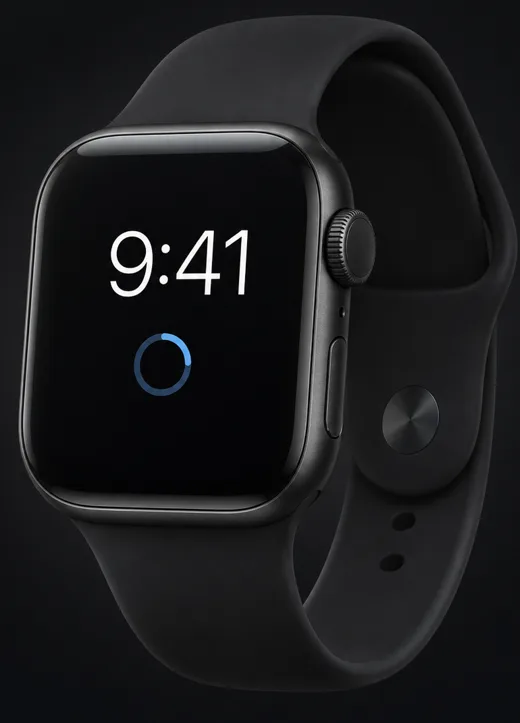
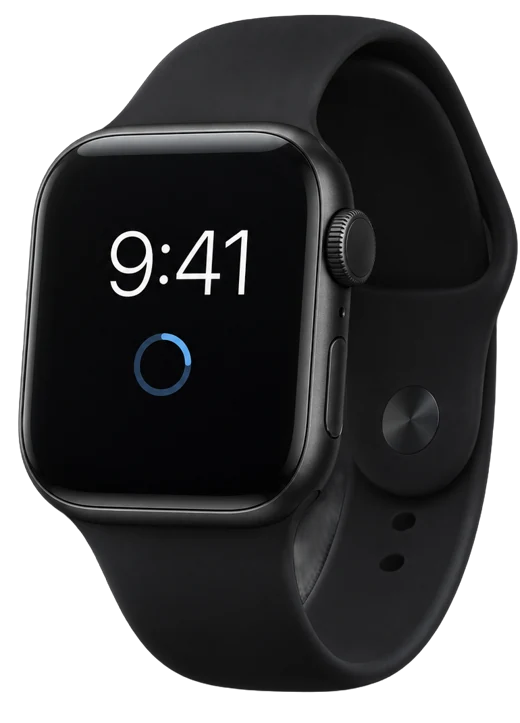
Hero device cut out of its photo, grey glow around it
The four device photos are cut out (transparent background), so the soft
grey glow sits around the device itself and the hero's black shows behind
the strap. The screen overlay stays black like the original. The device
sits a little higher, and the hero keeps enough room above the stats that
it never reaches the date, even when the fuel strip is shown.

Claude-Session: https://claude.ai/code/session_012nSa73TQJCXMLahdjqwpcK

Changed region(s): [[0.0, 0.0, 1.0, 1.0], [0.5538, 0.6999, 0.6769, 0.8216]]

diff --git a/src/app/dashboard/dashboard.css b/src/app/dashboard/dashboard.css
@@ -10,6 +10,7 @@
 /* hero */
 .hero { container: hero / inline-size; position: relative; display: grid; color: #fff; cursor: pointer; background: var(--hero); color: #fff; border-radius: var(--radius); padding: 22px 28px 24px; display: grid; gap: 12px; grid-template-rows: auto 1fr auto; min-height: 350px; }
 .hero.done { background: var(--hero-done); }
+.hero > .top + div { min-height: 172px; } /* room above the stats for the device, whatever else the hero holds */
 .hero .top { display: flex; justify-content: space-between; font-size: 12px; letter-spacing: 0.04em; text-transform: uppercase; opacity: 0.9; }
 .hero .title { font-size: 56px; font-weight: 600; letter-spacing: -0.03em; line-height: 0.95; }
 .hero .sub { font-size: 28px; font-weight: 400; opacity: 0.9; letter-spacing: -0.02em; margin-top: 4px; }
@@ -30,11 +31,10 @@
 .hero .stat.gm { position: relative; padding-right: 0; border-right: 0; }
 .hero { overflow: hidden; } /* the strap may run past the top edge; it fades there */
 .hero .top { position: relative; z-index: 2; } /* the date stays on top of the device */
-.hero .garmin { position: absolute; left: 50%; bottom: calc(100% + 2px); animation: hover 4s ease-in-out infinite; } /* centred over the wearable column */
+.hero .garmin { position: absolute; left: 50%; bottom: calc(100% + 6px); animation: hover 4s ease-in-out infinite; } /* centred over the wearable column */
 @keyframes hover { 0%, 100% { transform: translate(-50%, 0); } 50% { transform: translate(-50%, -5px); } }
-/* the device photo: its own soft grey glow, edges faded into the hero, the session drawn on the screen */
-.dev { position: relative; -webkit-mask-image: radial-gradient(farthest-corner, #000 60%, transparent 90%); mask-image: radial-gradient(farthest-corner, #000 60%, transparent 90%); }
-.dev::before { content: ""; position: absolute; inset: 12% 18%; border-radius: 50%; background: radial-gradient(closest-side, rgba(255,255,255,0.16), rgba(255,255,255,0)); }
+/* the device, cut out of its photo, with the soft grey glow around it and the session drawn on the screen */
+.dev { position: relative; filter: drop-shadow(0 0 10px rgba(255,255,255,0.22)) drop-shadow(0 0 34px rgba(255,255,255,0.26)) drop-shadow(0 16px 22px rgba(0,0,0,0.55)); }
 .dev img { position: relative; display: block; width: 100%; height: 100%; }
 .dev .dev-face { position: absolute; inset: 0; width: 100%; height: 100%; font-family: inherit; }
 .hero .stat.gm .v { display: inline-flex; align-items: center; gap: 9px; font-size: 28px; height: 34px; }

diff --git a/src/components/DeviceArt.tsx b/src/components/DeviceArt.tsx
@@ -6,7 +6,7 @@ export const deviceOf = (key: string | undefined): Device => (key === "fitbit" |
 export interface Face { sport: string; time: string; dist: string; hr?: number }
 const SIZE: Record<Device, [number, number]> = { fitbit: [520, 810], apple: [520, 723], whoop: [520, 710], garmin: [520, 722] };
 
-export function DeviceArt({ device, face, height = 178 }: { device: Device; face: Face | null; height?: number }) {
+export function DeviceArt({ device, face, height = 168 }: { device: Device; face: Face | null; height?: number }) {
   const [W, H] = SIZE[device];
   const width = Math.round((height * W) / H);
   const sport = face?.sport.toUpperCase() ?? "";
